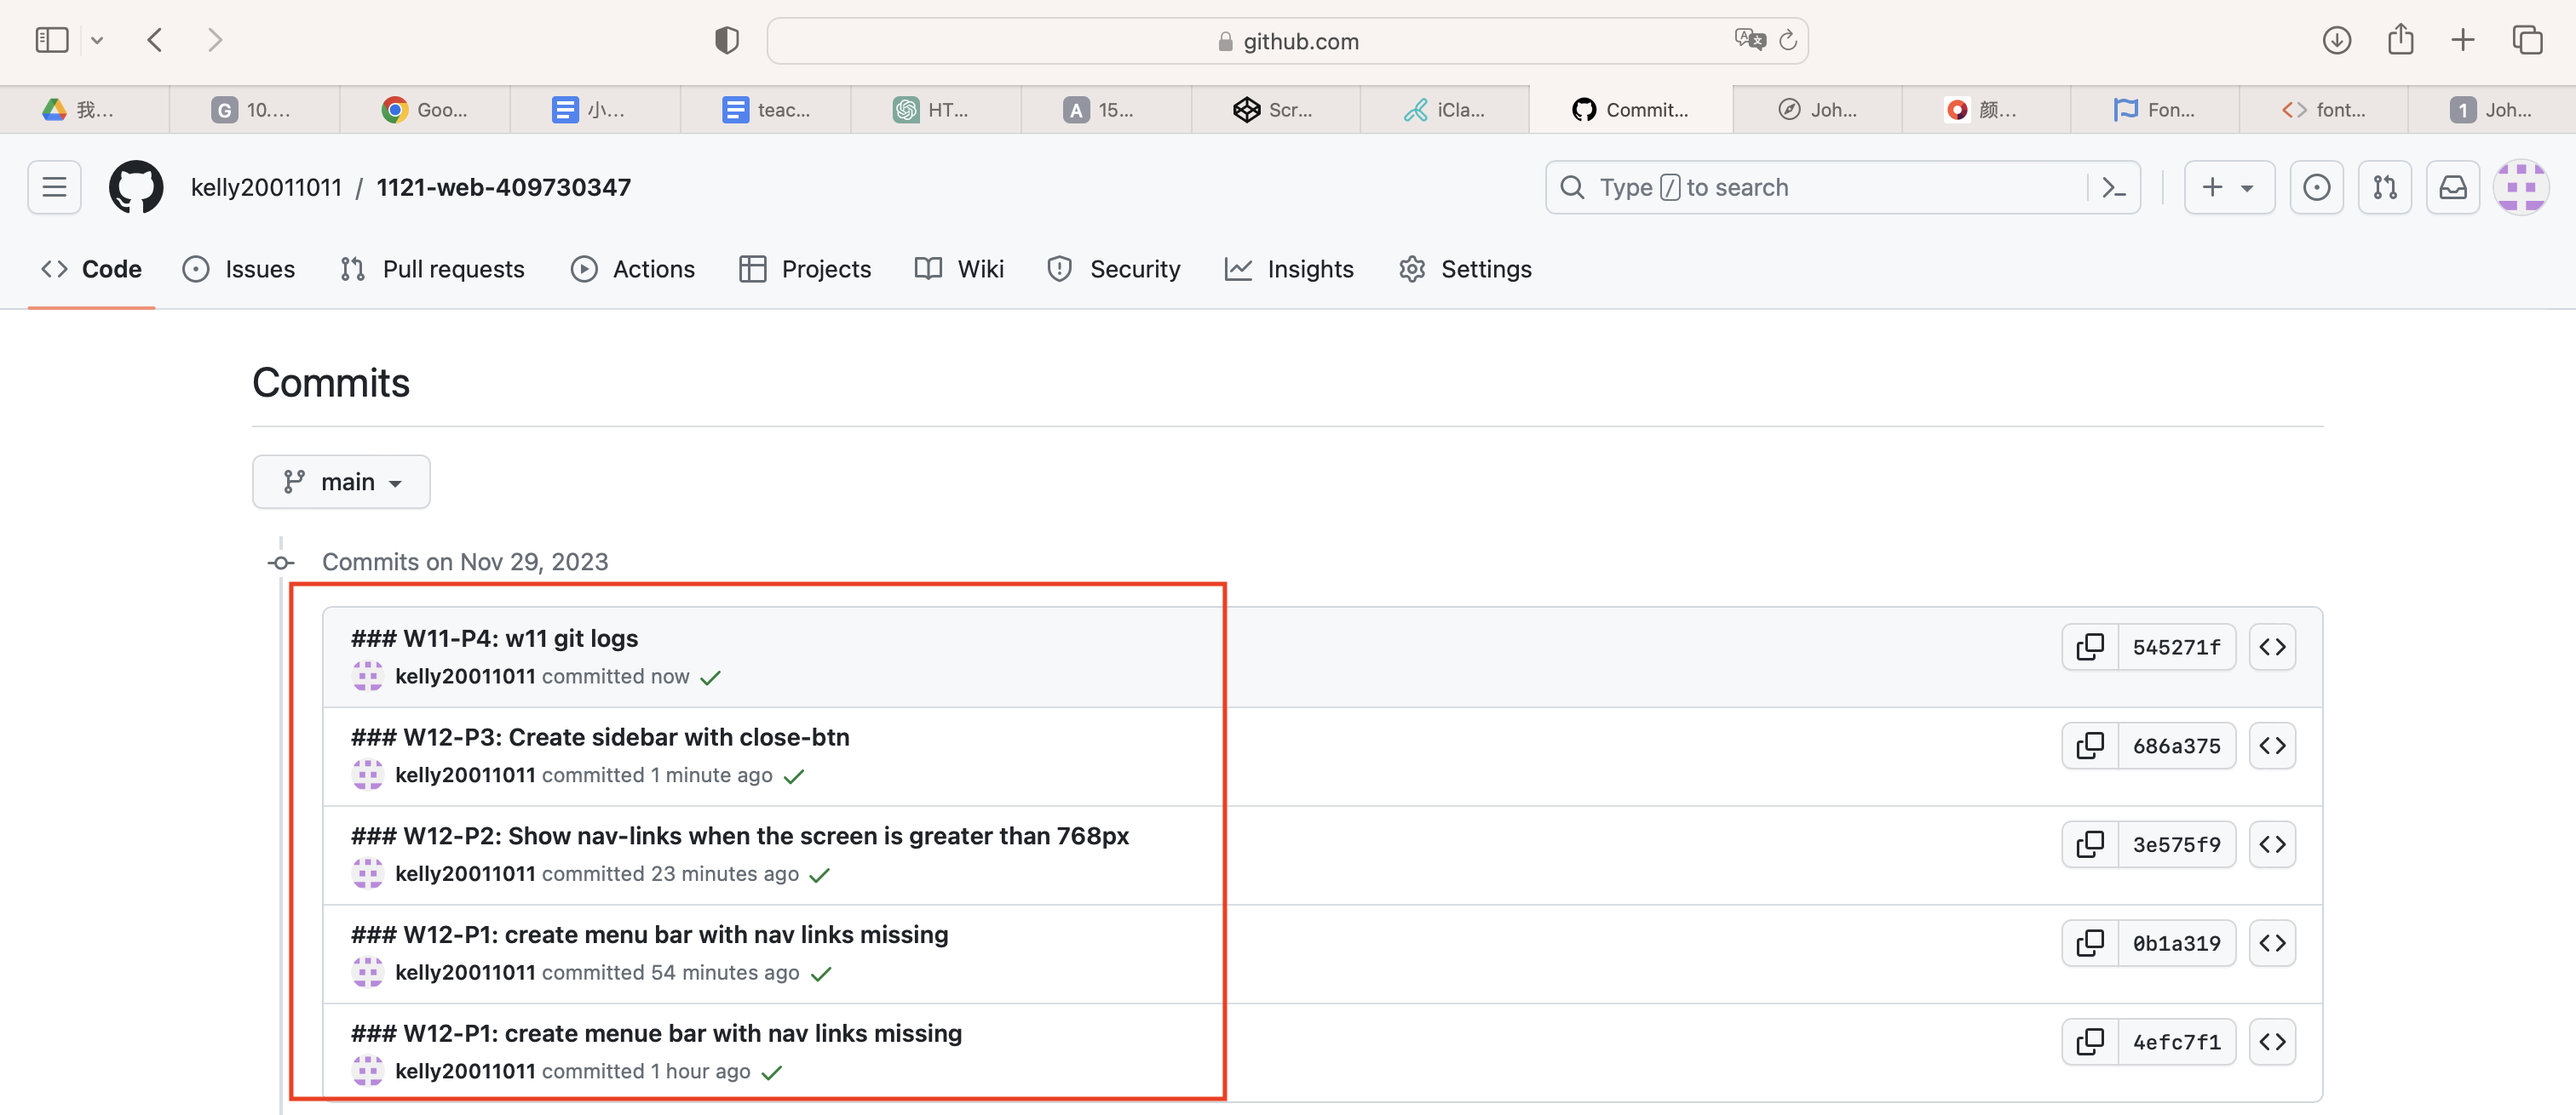
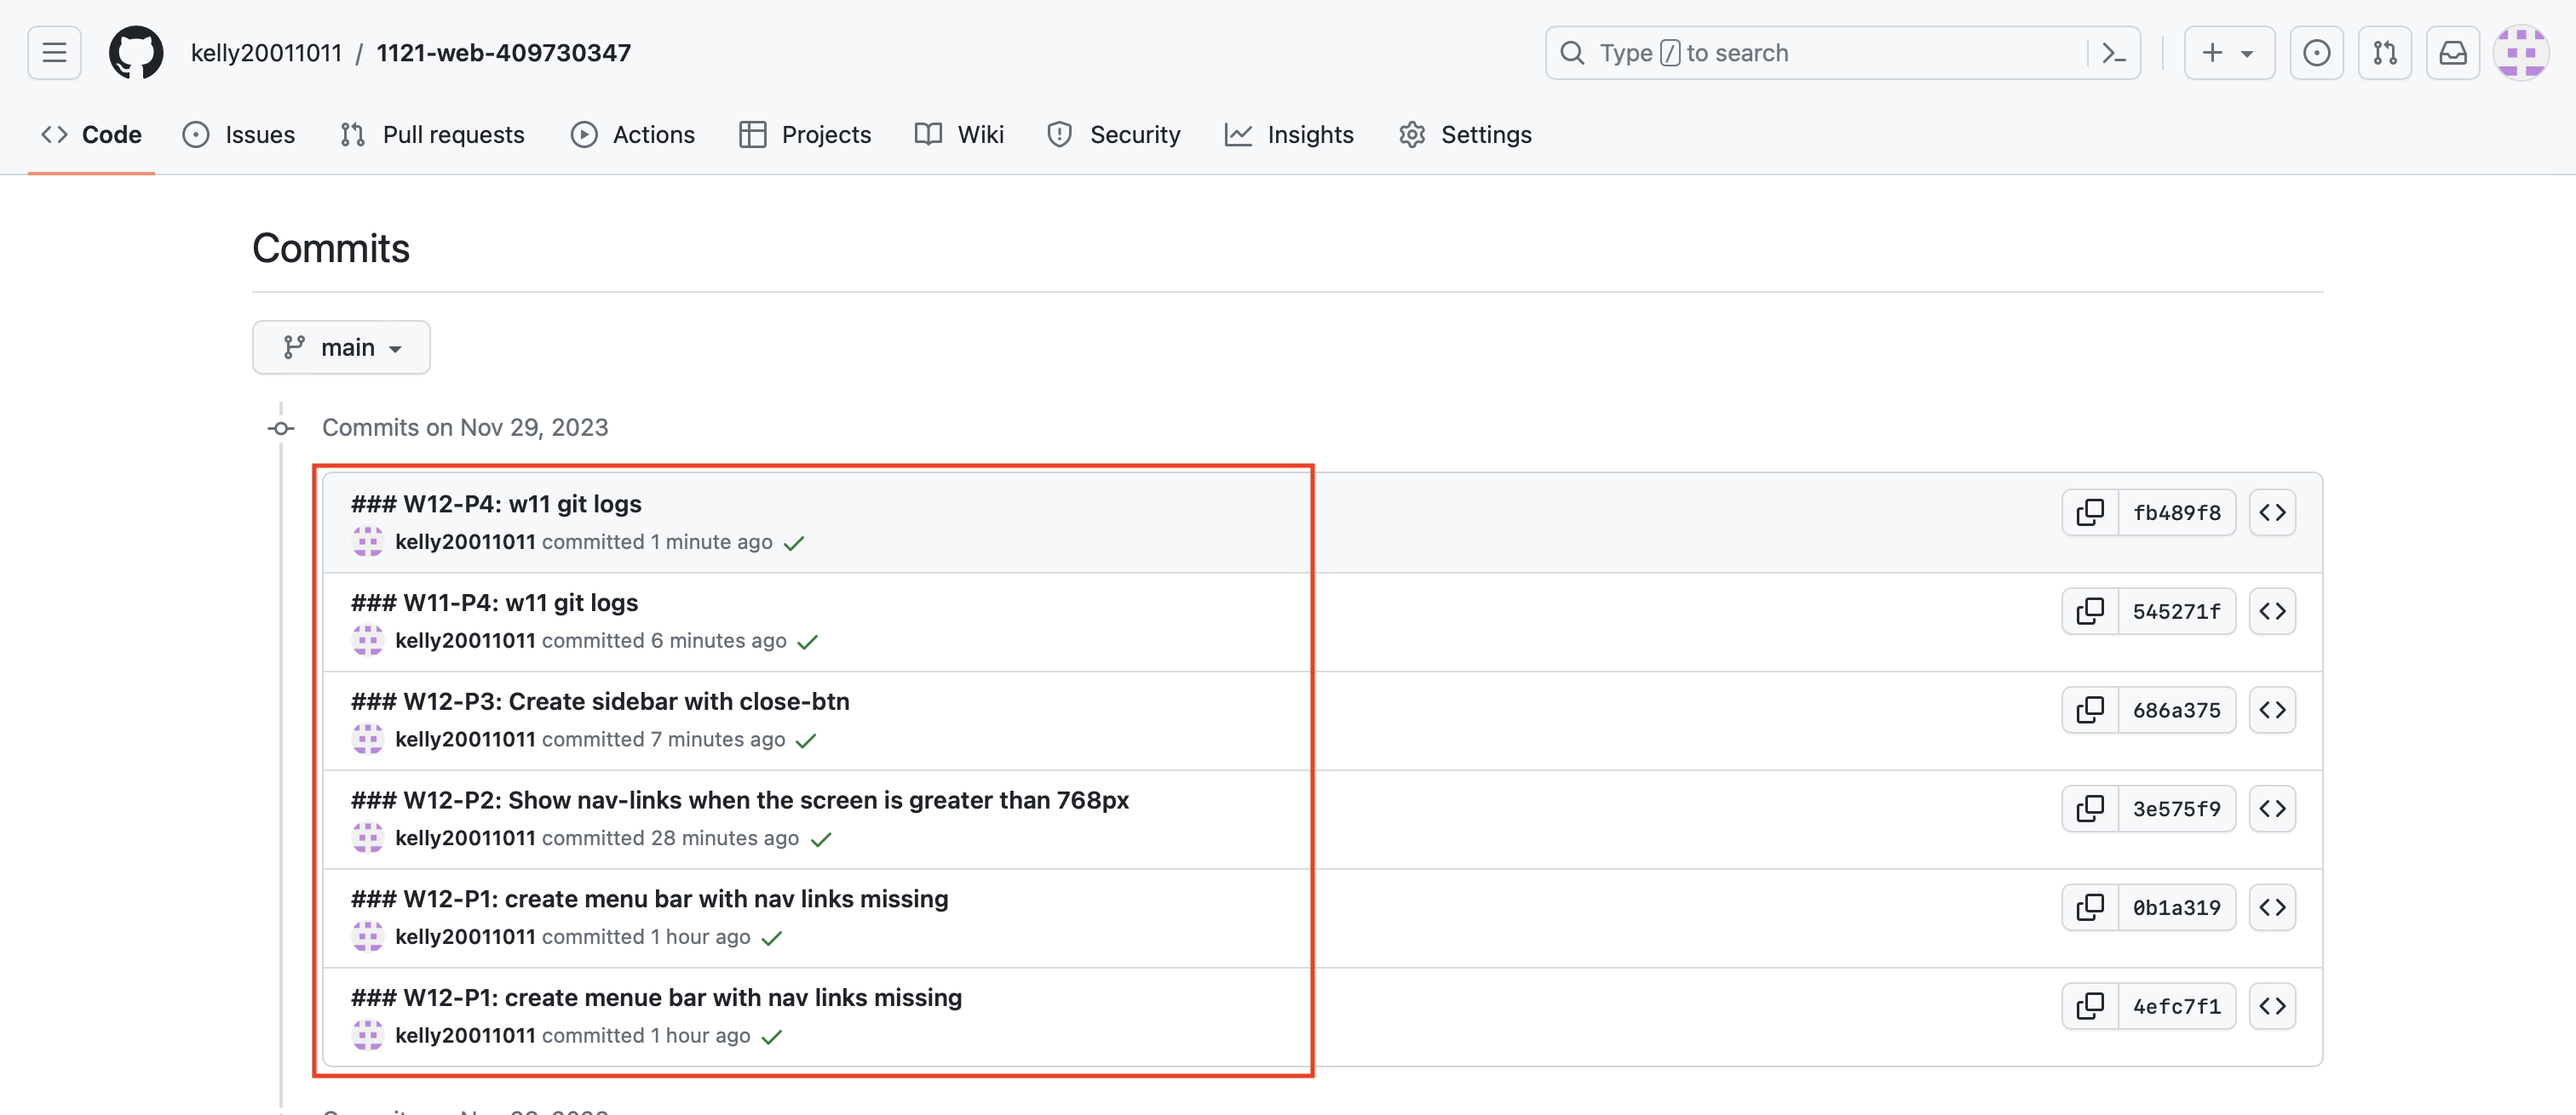
### W12-P4: w11 git logs

diff --git a/demo/w12_47/w12_47.md b/demo/w12_47/w12_47.md
@@ -26,9 +26,10 @@
 ![](w12-p4.png)
  
 ```
-gaoyuxin@pc4 1121-web-409730347 % git log --pretty=format:"%h%x09%an%x09%ad%x09%s" --after="2023-09-26"
+gaoyuxin@gaoyuxindeMacBook-Pro 1121-web-409730347 % git log --pretty=format:"%h%x09%an%x09%ad%x09%s" --after="2023-09-26"
+fb489f8 kellyyushin     Wed Nov 29 15:09:33 2023 +0800   ### W12-P4: w11 git logs
 545271f kellyyushin     Wed Nov 29 15:04:27 2023 +0800   ### W11-P4: w11 git logs
 686a375 kellyyushin     Wed Nov 29 15:03:34 2023 +0800   ### W12-P3: Create sidebar with close-btn
 3e575f9 kellyyushin     Wed Nov 29 14:41:43 2023 +0800   ### W12-P2: Show nav-links when the screen is greater than 768px
-0b1a319 kellyyushin     Wed Nov 29 14:10:55 2023 +0800   ### W12-P1: create menu bar with nav links missing
+0b1a319 kellyyushin     Wed Nov 29 14:10:55 2023 +0800   ### W12-P1: create menu bar with nav links:
 ```
